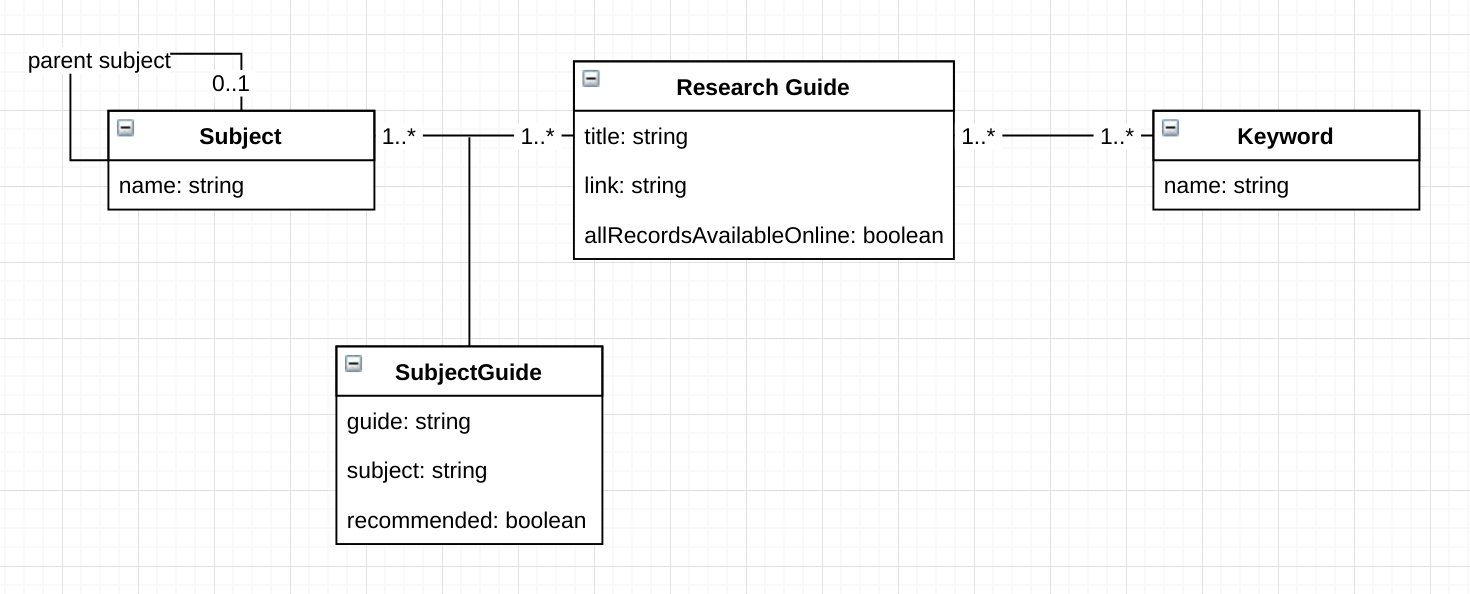
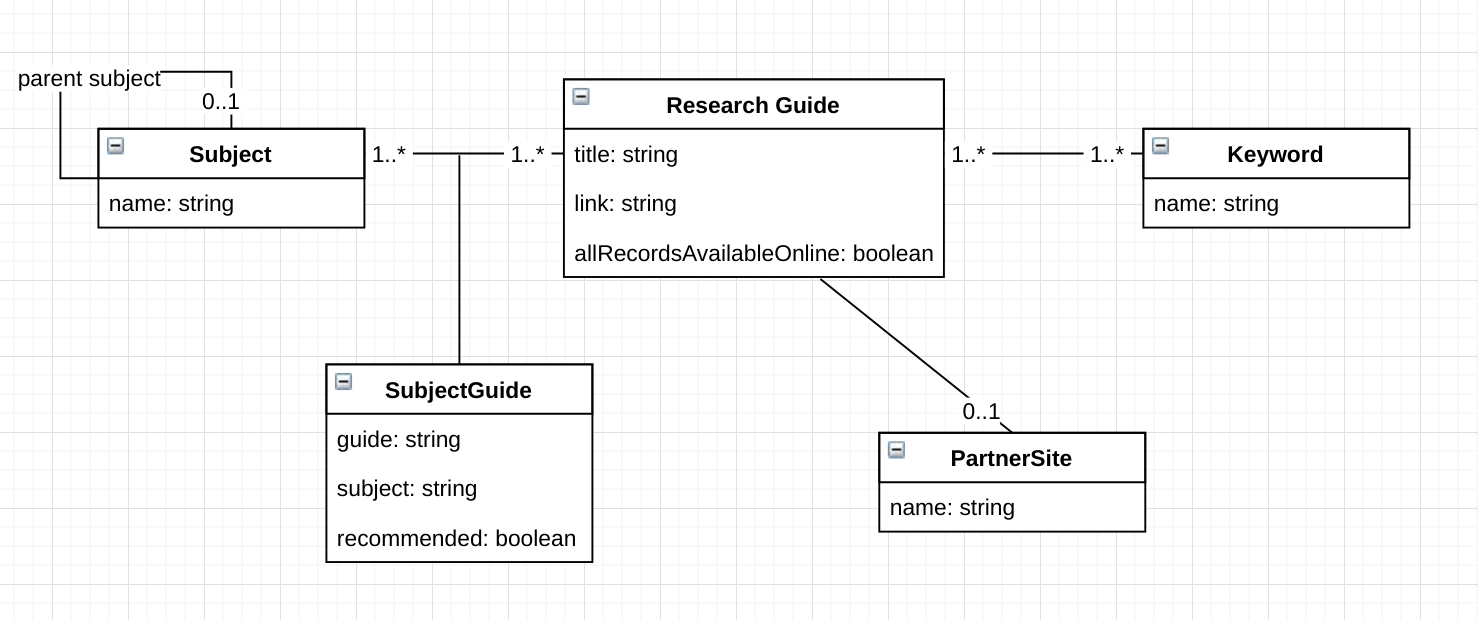
Update UML to include partner sites
Following discussion with SW who explained we need to show these.

diff --git a/proposed-html-structure.html b/proposed-html-structure.html
@@ -1,0 +1,10 @@
+<!DOCTYPE html>
+<html lang="en">
+<head>
+    <meta charset="UTF-8">
+    <title>$Title$</title>
+</head>
+<body>
+$END$
+</body>
+</html>
